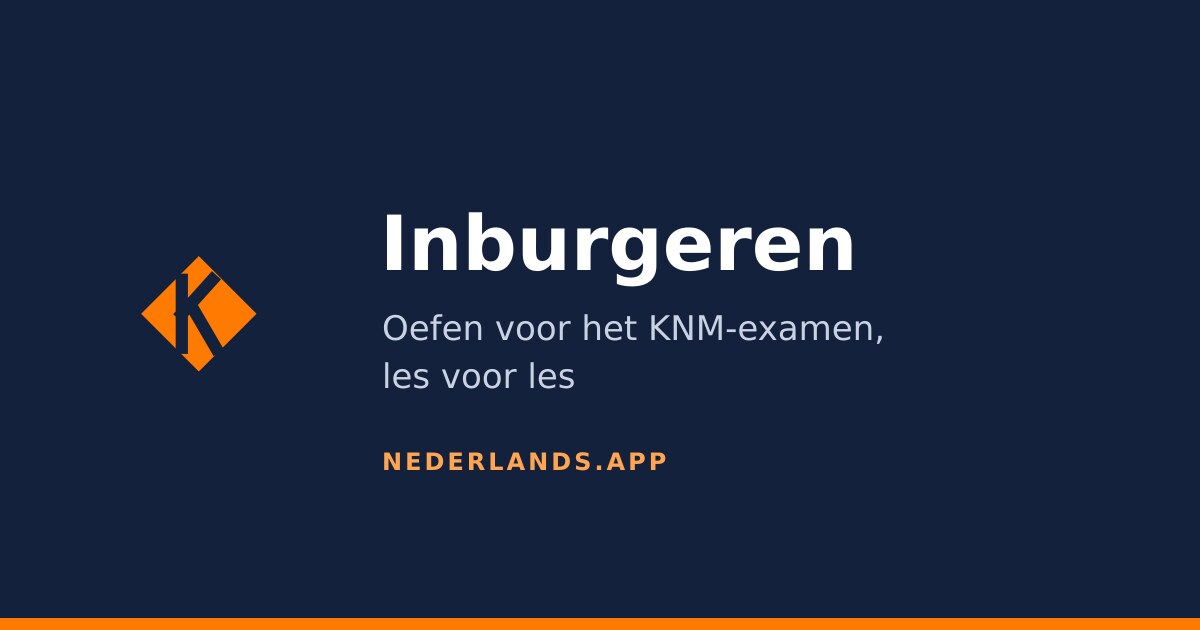
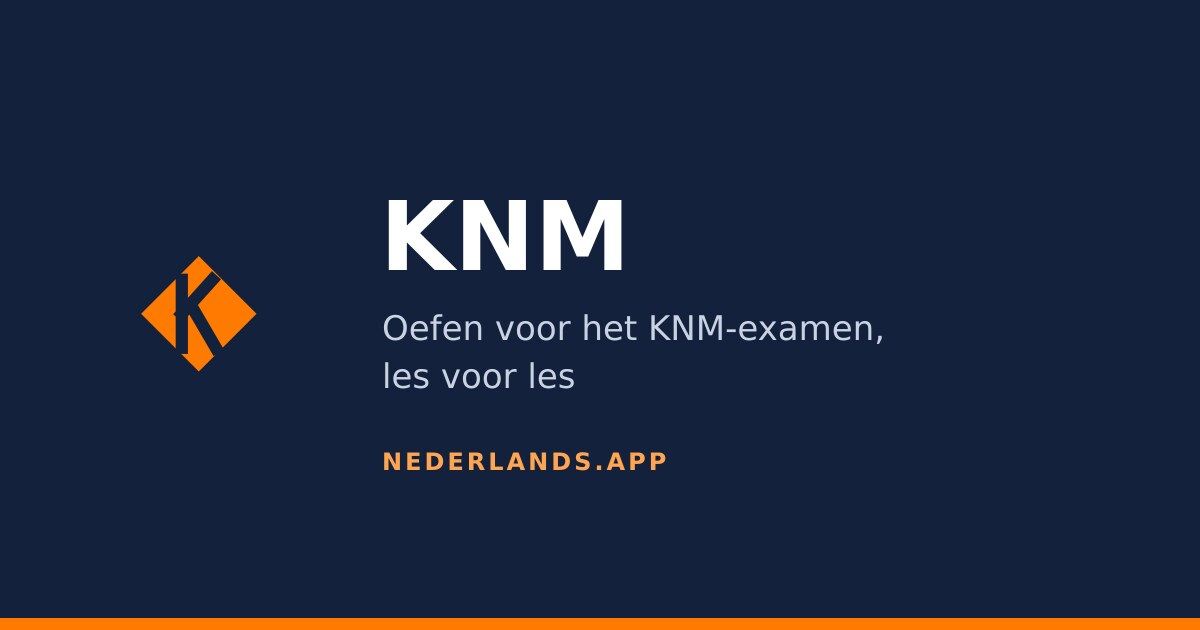
Call the site KNM
- SITE.name is KNM; the share image, the manifest and the contact mail follow.
- Texts that named the site in a sentence now say "deze site", so KNM is not read as the exam itself.

Claude-Session: https://claude.ai/code/session_01XZEpFdc6g48PVYEtovZZZm

Changed region(s): [[0.3083, 0.3016, 0.7092, 0.4524]]

diff --git a/api/contact.js b/api/contact.js
@@ -4,7 +4,7 @@
  *
  * Vercel environment variables:
  *   RESEND_API_KEY  the API key (without it the form answers 503 and the page offers the writer's own mail program)
- *   CONTACT_FROM    the sender, on a domain verified in Resend (default: Inburgeren <contact@nederlands.app>)
+ *   CONTACT_FROM    the sender, on a domain verified in Resend (default: KNM <contact@nederlands.app>)
  *   CONTACT_TO      where messages go (default: info@nederlands.app)
  *
  * Spam: a hidden field that people leave empty, a minimum time on the page, and limits on every field.
@@ -39,7 +39,7 @@ export default async function handler(req, res) {
   const key = process.env.RESEND_API_KEY;
   if (!key) return res.status(503).json({ ok: false, error: "unconfigured" });
 
-  const subject = `[Inburgeren · ${f.topic}] ${f.name}`.replace(/[\r\n]+/g, " ");
+  const subject = `[KNM · ${f.topic}] ${f.name}`.replace(/[\r\n]+/g, " ");
   const lang = String(b.locale || "").slice(0, 5);
   const text = [`Name: ${f.name}`, `Email: ${f.email}`, `Topic: ${f.topic}`, f.page ? `Page: ${f.page}` : null, lang ? `Language: ${lang}` : null, "", f.message].filter((x) => typeof x === "string").join("\n");
 
@@ -48,7 +48,7 @@ export default async function handler(req, res) {
       method: "POST",
       headers: { Authorization: `Bearer ${key}`, "Content-Type": "application/json" },
       body: JSON.stringify({
-        from: process.env.CONTACT_FROM || "Inburgeren <contact@nederlands.app>",
+        from: process.env.CONTACT_FROM || "KNM <contact@nederlands.app>",
         to: [process.env.CONTACT_TO || "info@nederlands.app"],
         reply_to: f.email,
         subject,

diff --git a/apps/web/src/config/site.ts b/apps/web/src/config/site.ts
@@ -20,7 +20,7 @@ export const ANALYTICS = env.VERCEL_ENV === "production" && env.ANALYTICS !== "o
 
 export const SITE = {
   /** The working name of the site; change it here only. */
-  name: "Inburgeren",
+  name: "KNM",
   /**
    * The colour palette (styles/palettes.css): "oranje" (navy with orange) or "rwb" (the red, white and blue of the
    * flag). The header colour of the installed app follows it (THEME_COLOR).

diff --git a/apps/web/src/pages/manifest.webmanifest.ts b/apps/web/src/pages/manifest.webmanifest.ts
@@ -5,7 +5,7 @@ export const GET: APIRoute = () =>
   new Response(
     JSON.stringify(
       {
-        name: `${SITE.name}: oefenen voor het KNM-examen`,
+        name: `${SITE.name}: oefenen voor het inburgeringsexamen`,
         short_name: SITE.name,
         description: "Oefen voor het KNM-examen van de inburgering: korte lessen per thema met toetsen, een kennisbank en herhalen.",
         lang: "nl",

diff --git a/CLAUDE.md b/CLAUDE.md
@@ -1,8 +1,8 @@
-# Working on Inburgeren (nederlands.app; repo: knm)
+# Working on KNM (nederlands.app; repo: knm)
 
 A course for the KNM exam (Kennis van de Nederlandse Maatschappij) of the Dutch civic integration, built on the infrastructure of The Mantiqi (repo Nawidhbr/themantiqi): the same study engine, test, review, word pop-ups, search, PWA, error reporting, CSP and site checks, with KNM content instead of manṭiq.
 
-- Monorepo with npm workspaces: `apps/web` (Astro, static) and `packages/content`. Node 22+. Live at www.nederlands.app (the bare nederlands.app redirects there in the Vercel domain settings) (`SITE_URL` in `apps/web/src/config/site.ts`; never hard-code the domain). The site name is `SITE.name` ("Inburgeren"); change it there only.
+- Monorepo with npm workspaces: `apps/web` (Astro, static) and `packages/content`. Node 22+. Live at www.nederlands.app (the bare nederlands.app redirects there in the Vercel domain settings) (`SITE_URL` in `apps/web/src/config/site.ts`; never hard-code the domain). The site name is `SITE.name` ("KNM"); change it there only.
 - Run `npm run check` before committing: the tests of the study rules (`apps/web/test/progress.test.js`, vitest), the content validation, the build, `scripts/check-site.mjs` (broken links, missing title/description/canonical/og:image, other than one h1, bad JSON-LD, two Dutch pages with one title) and the Playwright tests in `e2e/` (locks and stars, review, word pop-ups, main pages on desktop and phone without sideways scrolling or script errors). GitHub Actions runs the same on every push.
 - Dutch (nl) is the source language: the exam is in Dutch. Every text field is `{ nl, en? }`; a missing translation shows the Dutch (`tx`/`txl` in `packages/content/src/index.ts`). Interface text lives in `apps/web/src/i18n/<code>.json` (nl is the base, others merged over it); never write interface text into a page. Live languages: `LIVE_LOCALES` (nl, en); ar, Dari (fa-af), tr and ti are listed as "in preparation" in `SITE.languages`. Every URL starts with the locale (`/nl/...`); `/` redirects to `/nl/` (vercel.json).
 - Content (`packages/content`), validated by `scripts/validate.ts` against `src/schema.ts`, which writes `generated/*.json`; the site imports only the generated bundles:

diff --git a/README.md b/README.md
@@ -1,4 +1,4 @@
-# Inburgeren
+# KNM
 
 Oefenen voor het KNM-examen (Kennis van de Nederlandse Maatschappij) van de inburgering: korte lessen per thema met toetsen, een kennisbank over Nederland, herhalen en woorduitleg. Gebouwd op de infrastructuur van The Mantiqi. Live op www.nederlands.app.
 
